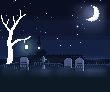
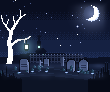
style(cosmetics): 꼬마 유령 카드 바닥을 깊이 있게 — 먼 언덕·가운데 등성이·가까운 비탈
- 바닥이 어두운 풀 한 판이라 밋밋했다. 길·철책 문은 이름 띠에 거의 가려 모양만 어색해 뺐다
- 뒤에서 앞으로 겹을 쌓는다: 예배당과 작은 비석 실루엣이 선 먼 언덕 → 철책과 작고 흐린 비석이
  선 가운데 등성이(달빛 테두리) → 그 사이 안개 → 큰 달빛 비석·풀포기·꽃이 있는 가까운 비탈 →
  양 아래 모서리를 감싸는 검은 풀숲
- 하늘 색 띠 경계의 점무늬가 가로 줄무늬처럼 보여 이 카드는 띠의 절반에 걸쳐 섞이게(sky seam 인자)

diff --git a/scripts/pixelfx/cards/bg-ghost.js b/scripts/pixelfx/cards/bg-ghost.js
@@ -56,13 +56,19 @@ function tree(p) {
   halo(p, hx, hy + 8, 16, "#9fe8d0", 0.45);
 }
 
-function fence(p, x0, x1, base) {
-  const bar = hex("#0a1020");
-  p.rect(x0, base - 6, x1 - x0, 1, bar);
-  p.rect(x0, base - 2, x1 - x0, 1, bar);
+function fence(p, x0, x1, base, gate = null) {
+  const bar = hex("#26304e"), tip = hex("#5a6a96");
+  const open = (x) => gate && x > gate[0] && x < gate[1];
+  for (let x = x0; x < x1; x++) if (!open(x)) { p.px(x, base - 6, bar); p.px(x, base - 2, bar); }
   for (let x = x0; x < x1; x += 3) {
+    if (open(x)) continue;
     p.rect(x, base - 8, 1, 8, bar);
-    p.px(x, base - 9, bar); p.px(x - 1, base - 8, bar); p.px(x + 1, base - 8, bar); // spear tip
+    p.px(x, base - 9, tip); p.px(x - 1, base - 8, bar); p.px(x + 1, base - 8, bar); // spear tip, moonlit
+  }
+  if (gate) for (const gx of gate) {
+    // stone gate posts with a ball on top, moonlit on the right
+    p.rect(gx - 1, base - 11, 3, 11, STONE[1]); p.px(gx + 1, base - 11, STONE[3]); p.rect(gx + 1, base - 10, 1, 10, STONE[2]);
+    p.disc(gx + 0.5, base - 12.5, 1.6, STONE[2]); p.px(gx + 1, base - 13, STONE[3]);
   }
 }
 
@@ -88,30 +94,62 @@ function stone(p, x, base, w, h, kind, lean = 0) {
 }
 
 export function draw(p) {
-  sky(p, ["#090e20", "#0f1731", "#152142", "#1d2c55", "#283a68"], 0, 78, 1.1);
+  sky(p, ["#090e20", "#0f1731", "#152142", "#1d2c55", "#283a68"], 0, 78, 1.1, 0.55);
   stars(p, 34, 5, 46, ["#4a5a8c", "#9fb0e0", "#ffffff"]);
   // the moon top right, in the clear sky over the ghost there
   halo(p, 92, 14, 28, "#c8d8ff", 0.45);
   moon(p, 92, 14, 8, { lit: "#eef2ff", mid: "#c9d3f0", dark: "#9aa6cc", crescent: -1, skyC: "#0f1731" });
 
-  // the far hill, a small chapel on it below the portrait
-  ridge(p, 60, 5, 30, 2, SIL[0]);
-  chapel(p, 36, 60);
-  // the gnarled tree on the left: the faint ghost there is see-through, the crown and lantern rise above it
-  tree(p);
-  // the graveyard hill: raised so the stones stand clear of the name bar
-  ridge(p, 65, 4, 26, 9, SIL[1], { rim: "#2a3a62" });
-  fence(p, 30, 82, 63);
-  stone(p, 25, 69, 9, 12, "carved", -0.6);
-  stone(p, 44, 68, 7, 11, "cross");
-  stone(p, 68, 68, 8, 10, "round", 0.8);
-  stone(p, 80, 70, 9, 12, "carved");
-  // grass tufts along the hill
-  for (let x = 0; x < W; x += 2) {
-    const h = Math.round(1 + rand(x, 21) * 3), y = 67 + Math.round(2 * Math.sin(x / 9));
-    p.rect(x, y - h, 1, h, GRASS[rand(x, 22) > 0.5 ? 2 : 1]);
+  // ── depth, back to front: far hill with chapel and tiny far stones, fence on the middle rise with mid stones,
+  // mist between, then the near slope with big moonlit stones; dark grass frames the bottom corners
+  ridge(p, 58, 5, 30, 2, SIL[0]);
+  chapel(p, 36, 59);
+  const far = hex("#141c34");
+  for (const [x, h, cross] of [[50, 4, 1], [55, 3, 0], [61, 4, 1], [72, 3, 0], [77, 4, 1]]) {
+    const base = 58 - Math.round(2 * Math.sin(x / 11));
+    if (cross) { p.rect(x, base - h, 1, h, far); p.rect(x - 1, base - h + 1, 3, 1, far); } else p.rect(x - 1, base - h, 3, h, far);
   }
-  p.rect(0, 71, W, 21, GRASS[0]);
-  fogBand(p, 71, 7, "#8aa0d8", 0.5, 4);
-  fogBand(p, 60, 4, "#7d8fc0", 0.25, 9);
+  // the gnarled tree on the left, the lantern on its low limb
+  tree(p);
+  // the middle rise: a rolling crest with a moonlit rim, the fence along it, two smaller, dimmer stones
+  const mid = (x) => 63 + Math.round(1.5 * Math.sin(x / 13 + 1));
+  p.shade(0, 58, W - 1, 91, (x, y) => (y < mid(x) ? undefined : y === mid(x) ? hex("#26365c") : SIL[1]));
+  fence(p, 30, 84, 63);
+  stone(p, 47, 66, 5, 7, "round");
+  stone(p, 63, 65, 5, 8, "cross");
+  fogBand(p, 66, 4, "#8aa0d8", 0.35, 9);
+  // the near slope: lower, closer, a little lighter, with the big stones on it
+  const near = (x) => 68 + Math.round(2 * Math.sin(x / 17 + 2.2));
+  const SOIL = ["#0d1426", "#141d34", "#1c2844"].map(hex);
+  p.shade(0, 64, W - 1, 91, (x, y) => {
+    const t0 = near(x);
+    if (y < t0) return;
+    if (y === t0) return hex("#33477a");
+    if (y === t0 + 1) return SOIL[2];
+    return rand(Math.floor(x / 6), y, 41) > 0.85 && y < t0 + 8 ? SOIL[2] : y > t0 + 10 ? SOIL[0] : SOIL[1];
+  });
+  stone(p, 25, 72, 9, 13, "carved", -0.6);
+  stone(p, 40, 71, 7, 11, "cross", 0.3);
+  stone(p, 71, 71, 8, 11, "round", 0.8);
+  stone(p, 84, 73, 9, 13, "carved");
+  // grass clumps along the near slope, moonlit tips; a few pale flowers by the stones
+  for (let i = 0; i < 22; i++) {
+    const x = Math.round(rand(i, 51) * W), y = near(x) + 1 + Math.round(rand(i, 52) * 5), h = 2 + Math.round(rand(i, 53) * 2);
+    p.rect(x - 1, y - h + 1, 1, h - 1, GRASS[1]); p.rect(x, y - h, 1, h, GRASS[2]); p.rect(x + 1, y - h + 1, 1, h - 1, GRASS[2]);
+    p.px(x + 1, y - h + 1, hex("#4a6c8c"));
+  }
+  for (const [x, y] of [[19, 73], [32, 72], [46, 72], [66, 73], [78, 72], [92, 74]]) {
+    p.px(x, y, GRASS[2]); p.px(x, y - 1, hex("#b8d0ff")); p.px(x - 1, y - 1, hex("#7e9ad8")); p.px(x + 1, y - 1, hex("#7e9ad8"));
+  }
+  // dark tall grass framing both bottom corners (nearest of all)
+  const fg = hex("#060a16");
+  for (let x = 0; x < W; x++) {
+    const edge = Math.max(0, 1 - Math.min(x, W - 1 - x) / 22);
+    if (edge <= 0) continue;
+    // separate blades: every column its own height, every few a tall one, a faint lit tip on the tall ones
+    const r = rand(x, 61), h = Math.round(edge * (4 + 14 * r * r) + (r > 0.8 ? 5 * edge : 0));
+    p.rect(x, 92 - 12 - h, 1, h + 12, fg);
+    if (r > 0.7 && h > 6) p.px(x, 92 - 12 - h, hex("#1a2744"));
+  }
+  fogBand(p, 76, 5, "#8aa0d8", 0.25, 4);
 }

diff --git a/scripts/pixelfx/cards/_bg.js b/scripts/pixelfx/cards/_bg.js
@@ -9,12 +9,12 @@ const BAYER = [0, 8, 2, 10, 12, 4, 14, 6, 3, 11, 1, 9, 15, 7, 13, 5].map((v) => 
 const dither = (x, y) => BAYER[((y & 3) << 2) | (x & 3)];
 
 /** Vertical sky from y0 to y1 through the ramp (top first): hard bands, a 4x4 ordered dither where they meet. */
-export function sky(p, ramp, y0 = 0, y1 = H, curve = 1) {
+export function sky(p, ramp, y0 = 0, y1 = H, curve = 1, seam = 0.35) {
   const C = ramp.map(hex), n = C.length - 1;
   p.shade(0, y0, W - 1, y1 - 1, (x, y) => {
     const v = Math.pow((y - y0) / Math.max(1, y1 - y0), curve) * n, i = Math.floor(v), f = v - i;
-    // only the last 35% of each band dithers into the next: wide flat bands, short seams
-    const g = (f - 0.65) / 0.35;
+    // only the last `seam` of each band dithers into the next: wide flat bands, short seams (1 = an even ramp)
+    const g = (f - (1 - seam)) / seam;
     return C[Math.min(n, g > dither(x, y) ? i + 1 : i)];
   });
 }
